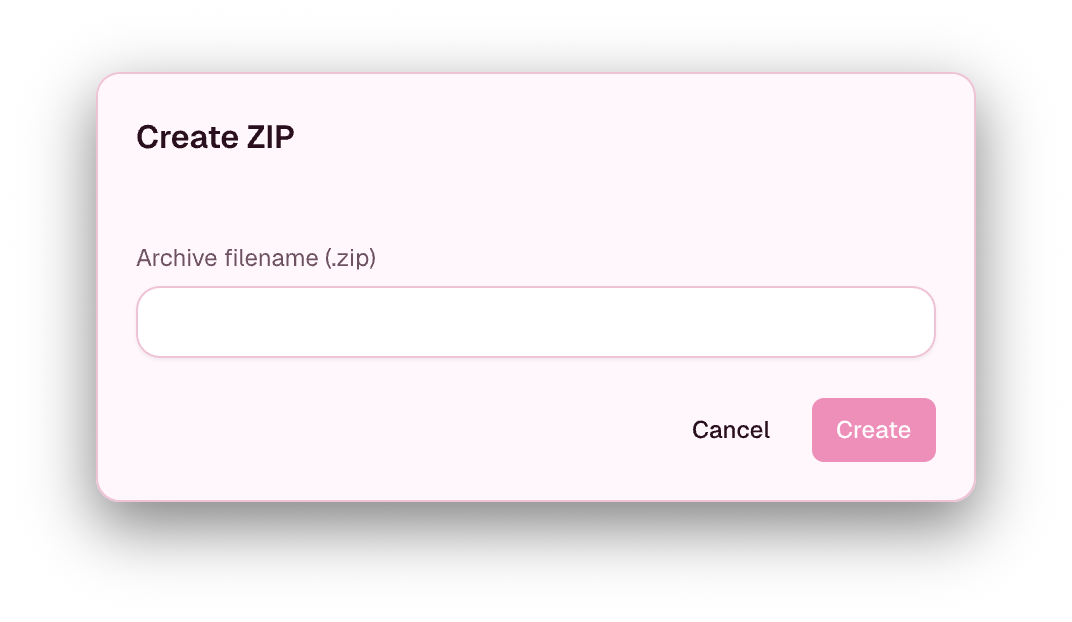
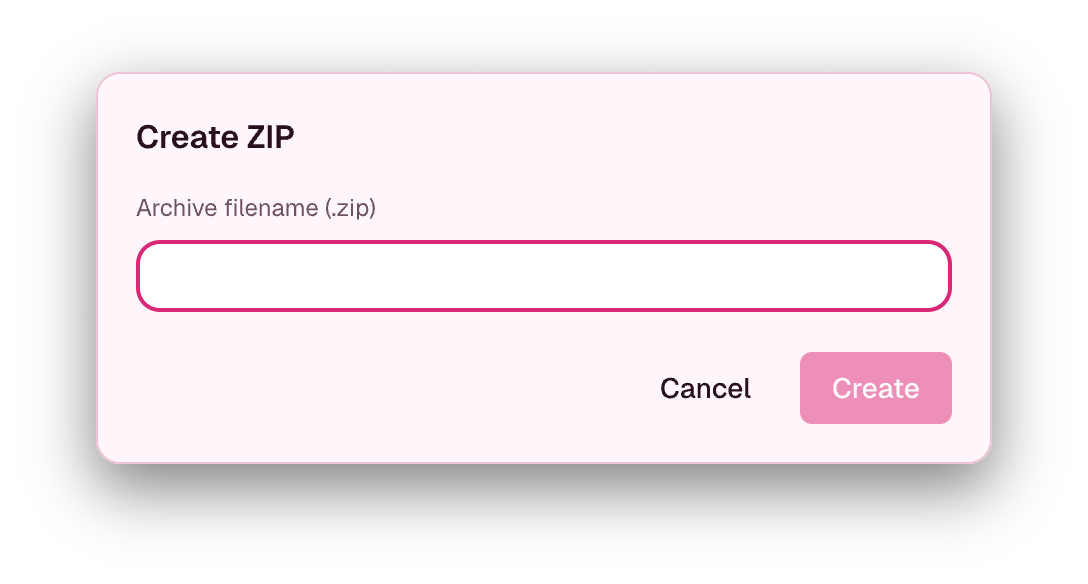
fix(files): name file prompts and verify workspace and archive views

diff --git a/web/src/test/handlers.ts b/web/src/test/handlers.ts
@@ -1495,28 +1495,26 @@ export function buildScreenshotHandlers() {
       HttpResponse.json({ ok: true }),
     ),
 
-    // Files
-    http.get("/servers/:name/files/list", () =>
-      HttpResponse.json([
-        makeFileEntry({ name: ".cache", path: "/data/.cache", size: 0, dir: true }),
-        makeFileEntry({ name: ".fabric", path: "/data/.fabric", size: 0, dir: true }),
-        makeFileEntry({ name: "libraries", path: "/data/libraries", size: 0, dir: true }),
-        makeFileEntry({ name: "logs", path: "/data/logs", size: 0, dir: true }),
-        makeFileEntry({ name: "mods", path: "/data/mods", size: 0, dir: true }),
-        makeFileEntry({ name: "versions", path: "/data/versions", size: 0, dir: true }),
-        makeFileEntry({ name: "world", path: "/data/world", size: 0, dir: true }),
-        makeFileEntry({ name: ".fabric-manifest.json", path: "/data/.fabric-manifest.json", size: 1024 }),
-        makeFileEntry({ name: ".rcon-cli.yaml", path: "/data/.rcon-cli.yaml", size: 128 }),
-        makeFileEntry({ name: "banned-ips.json", path: "/data/banned-ips.json", size: 2 }),
-        makeFileEntry({ name: "eula.txt", path: "/data/eula.txt", size: 68 }),
-        makeFileEntry({ name: "fabric-server-mc.1.21.4-loader.jar", path: "/data/fabric-server-mc.1.21.4-loader.jar", size: 4_500_000 }),
-        makeFileEntry({ name: "ops.json", path: "/data/ops.json", size: 2 }),
-        makeFileEntry({ name: "server.properties", path: "/data/server.properties", size: 1024 }),
-        makeFileEntry({ name: "usercache.json", path: "/data/usercache.json", size: 512 }),
-        makeFileEntry({ name: "whitelist.json", path: "/data/whitelist.json", size: 2 }),
-      ]),
-    ),
-    http.get("/servers/:name/files/read", () => new HttpResponse("# mock file body\n", { status: 200 })),
+    // Root-relative paths mirror the agent. An expanded folder returns only its children.
+    http.get("/servers/:name/files/list", ({ request }) => {
+      const path = new URL(request.url).searchParams.get("path");
+      if (path === "/logs") return HttpResponse.json([makeFileEntry({ name: "latest.log", path: "/logs/latest.log", size: 412 })]);
+      if (path !== "/" && path != null) return HttpResponse.json([]);
+      return HttpResponse.json([
+        ...["libraries", "logs", "mods", "versions", "world"].map((name) =>
+          makeFileEntry({ name, path: "/" + name, size: 0, dir: true })),
+        ...Object.entries({
+          "banned-ips.json": 2, "eula.txt": 68, "fabric-server-mc.1.21.4-loader.jar": 179200,
+          "ops.json": 2, "server.properties": 1434, "usercache.json": 2, "whitelist.json": 2,
+        }).map(([name, size]) => makeFileEntry({ name, path: "/" + name, size })),
+      ]);
+    }),
+    http.get("/servers/:name/files/read", ({ request }) => {
+      const path = new URL(request.url).searchParams.get("path");
+      if (path === "/server.properties") return HttpResponse.text("#Minecraft server properties\nmotd=Survival server\ndifficulty=normal\ngamemode=survival\nmax-players=20\nwhite-list=true");
+      if (path === "/eula.txt") return HttpResponse.text("eula=true");
+      return HttpResponse.text("# mock file body\n");
+    }),
     http.post("/servers/:name/files/write", () => new HttpResponse(null, { status: 204 })),
     http.post("/servers/:name/files/mkdir", () => new HttpResponse(null, { status: 204 })),
     http.delete("/servers/:name/files/delete", () => new HttpResponse(null, { status: 204 })),

diff --git a/web/e2e/screenshots/slice2a.spec.ts b/web/e2e/screenshots/slice2a.spec.ts
@@ -21,7 +21,7 @@ import { test, expect, type Page } from "@playwright/test";
 // added by this task — additively — because no existing fixture covered
 // idle-armed, never-sleeps, or PVC-provisioning-failed.
 
-import { capture } from "./capture";
+import { capture, captureLocator } from "./capture";
 
 // Selects the enriched screenshot dataset before the app's first fetch.
 async function useScreenshotDataset(page: Page): Promise<void> {
@@ -176,9 +176,31 @@ test.describe("Slice 2a: Servers + core tabs (Desktop — 1440x900) @screenshots
   test("Burtr: Server Detail — Files", async ({ page }) => {
     await page.goto("/servers/mc-survival");
     await clickTab(page, "Files");
-    await expect(page.getByText("server.properties")).toBeVisible({ timeout: 10_000 });
-    await page.waitForTimeout(200);
+    await page.getByRole("button", { name: "Expand /logs" }).click();
+    await expect(page.getByRole("button", { name: "latest.log", exact: true })).toBeVisible();
+    for (const name of ["eula.txt", "server.properties"]) {
+      await page.getByRole("checkbox", { name: "Select /" + name, exact: true }).check();
+      await page.getByRole("button", { name, exact: true }).click();
+      await expect(page.getByRole("button", { name: "Close /" + name, exact: true })).toBeVisible();
+    }
+    await expect(page.getByText("2 selected", { exact: true })).toBeVisible();
+    await expect(page.locator(".monaco-editor .view-line").first()).toContainText("#Minecraft server properties");
     await capture(page, "Burtr");
+  });
+
+  test("o1uEP: Create ZIP dialog", async ({ page }) => {
+    await page.addInitScript(() => { localStorage.setItem("gameplane-theme", "light"); });
+    await page.goto("/servers/mc-survival");
+    await clickTab(page, "Files");
+    await page.getByRole("checkbox", { name: "Select /eula.txt", exact: true }).check();
+    await page.getByRole("button", { name: "Create ZIP", exact: true }).click();
+    const dialog = page.getByRole("dialog", { name: "Create ZIP", exact: true });
+    const filename = dialog.getByRole("textbox", { name: "Archive filename (.zip)", exact: true });
+    await expect(dialog.getByRole("button", { name: "Create", exact: true })).toBeDisabled();
+    await filename.click();
+    await captureLocator(page, "o1uEP", dialog);
+    await filename.fill("selected.zip");
+    await expect(dialog.getByRole("button", { name: "Create", exact: true })).toBeEnabled();
   });
 
   test("dPP50: Server Detail — Players", async ({ page }) => {

diff --git a/web/src/routes/tabs/Files.tsx b/web/src/routes/tabs/Files.tsx
@@ -17,6 +17,7 @@ import {
   ModalContainer,
   ModalDialog,
   ModalHeader,
+  ModalHeading,
   ModalBody,
   ModalFooter,
   Button,
@@ -256,7 +257,7 @@ function FilesBrowser({ resourceTarget, path, onNavigate }: { resourceTarget: Re
 
   function downloadSelected() {
     if (!selected || selected.dir) return;
-    window.location.href = Files.downloadURL(name, selected.path, ns);
+    window.location.assign(Files.downloadURL(name, selected.path, ns));
   }
 
   return (
@@ -559,6 +560,7 @@ function NamePromptDialog({
   onSubmit,
 }: NamePromptProps) {
   const intl = useOptionalIntl();
+  const inputId = useId();
   const [value, setValue] = useState("");
   // Clear the input whenever the dialog transitions to open. Adjusted
   // directly during render (not in an effect), gated on the previous
@@ -579,7 +581,7 @@ function NamePromptDialog({
       <ModalBackdrop isDismissable={!busy}>
         <ModalContainer>
           <ModalDialog>
-            <ModalHeader className="flex flex-col gap-1">{title}</ModalHeader>
+            <ModalHeader><ModalHeading>{title}</ModalHeading></ModalHeader>
             <ModalBody>
               <form
                 onSubmit={(e) => {
@@ -589,8 +591,9 @@ function NamePromptDialog({
                 className="space-y-4"
               >
                 <div>
-                  <label className="block pb-2 text-xs text-default-500">{label}</label>
+                  <label htmlFor={inputId} className="block pb-2 text-xs text-default-500">{label}</label>
                   <Input
+                    id={inputId}
                     autoFocus
                     value={value}
                     placeholder={placeholder}

diff --git a/web/src/routes/tabs/Files.test.tsx b/web/src/routes/tabs/Files.test.tsx
@@ -559,9 +559,10 @@ describe("FilesTab", () => {
       throw new Error(`unexpected fetch: ${url}`);
     });
     const originalLocation = window.location;
+    const assign = vi.fn();
     Object.defineProperty(window, "location", {
       writable: true,
-      value: { href: "" },
+      value: { assign },
     });
     try {
       renderWithQuery(<FilesTab name="mc-survival" />);
@@ -570,9 +571,9 @@ describe("FilesTab", () => {
       const download = screen.getByRole("button", { name: /^Download$/ });
       fireEvent.click(download);
       await waitFor(() =>
-        expect(window.location.href).toContain(
+        expect(assign).toHaveBeenCalledWith(expect.stringContaining(
           "/servers/mc-survival/files/download?path=%2Fserver.properties",
-        ),
+        )),
       );
     } finally {
       Object.defineProperty(window, "location", { value: originalLocation });
